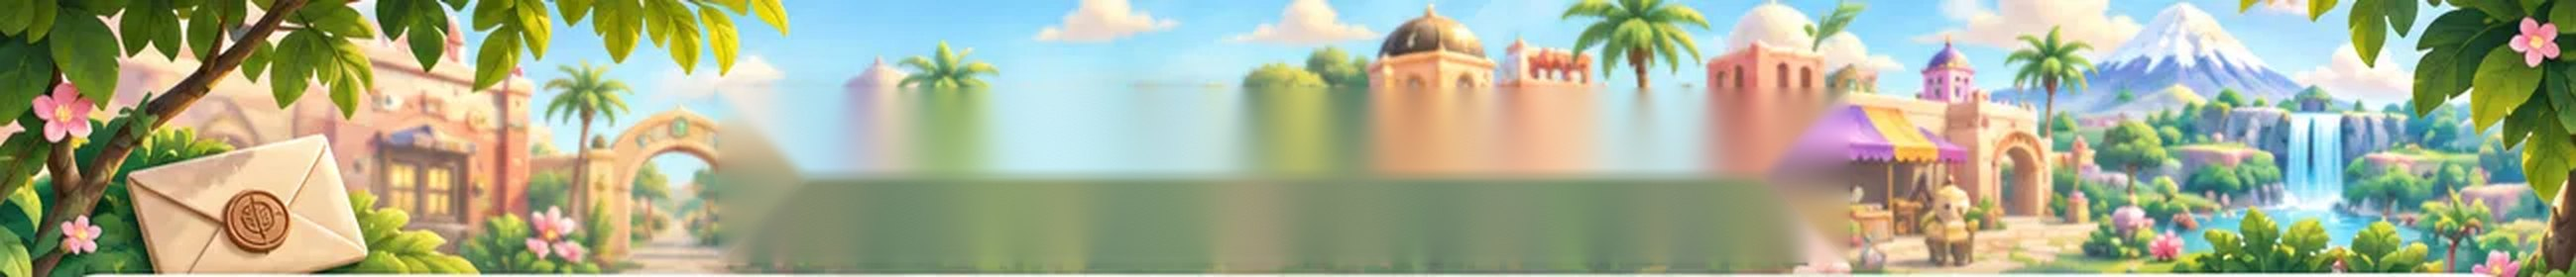
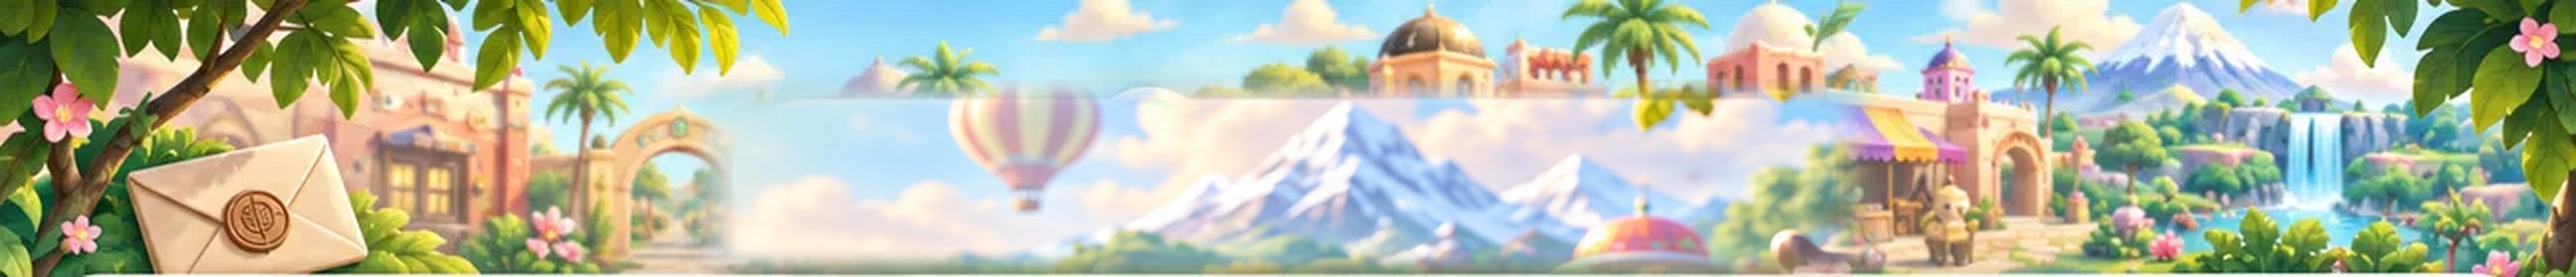
진행 단계 알약과 판 사이 간격 확보, 위 풍경 빈자리를 마을 그림으로 채움, 1단계 캐릭터 그림 아래로
Claude-Session: https://claude.ai/code/session_01CynPAmuwPJZKrN47LEfC1a

Changed region(s): [[0.2494, 0.2857, 0.7483, 1.0]]

diff --git a/css/app.css b/css/app.css
@@ -47,7 +47,7 @@ button, input, select, textarea { font: inherit; color: inherit; }
 
 /* ===== 진행 단계 알약 ===== */
 .stepper {
-  position: absolute; z-index: 2; left: 27.4%; width: 45.2%; top: 29%; height: 67%;
+  position: absolute; z-index: 2; left: 27.4%; width: 45.2%; top: 17%; height: 58%;
   display: flex; align-items: center;
   background: linear-gradient(#fffaf0, #fbf1e1);
   border-radius: var(--radius-pill);
@@ -186,8 +186,8 @@ button, input, select, textarea { font: inherit; color: inherit; }
 .route__steps span.is-on { background: var(--color-mint-soft); color: var(--color-mint-strong); border: 2px solid #9fd0bd; }
 .route__group { font-size: var(--text-xs); color: var(--color-text-muted); }
 
-.friends { position: relative; align-self: start; margin: -30px -30px 0 0; border-radius: 0 var(--radius-xl) 0 0; overflow: hidden; }
-.friends img { display: block; width: 100%; height: auto; aspect-ratio: 497 / 813; -webkit-mask-image: linear-gradient(90deg, transparent 0, #000 22%), linear-gradient(#000 88%, transparent); -webkit-mask-composite: source-in; mask-image: linear-gradient(90deg, transparent 0, #000 22%), linear-gradient(#000 88%, transparent); mask-composite: intersect; }
+.friends { position: relative; align-self: start; margin: 26px -30px 0 0; overflow: hidden; }
+.friends img { display: block; width: 100%; height: auto; aspect-ratio: 497 / 813; -webkit-mask-image: linear-gradient(90deg, transparent 0, #000 22%), linear-gradient(transparent 0, #000 9%, #000 88%, transparent); -webkit-mask-composite: source-in; mask-image: linear-gradient(90deg, transparent 0, #000 22%), linear-gradient(transparent 0, #000 9%, #000 88%, transparent); mask-composite: intersect; }
 
 /* ===== 2단계 ===== */
 .filterbar { display: flex; flex-wrap: wrap; align-items: center; gap: 14px 22px; padding: 16px 22px; border-radius: var(--radius-lg); background: #fcf6ed; border: 1.5px solid var(--color-line); box-shadow: var(--shadow-card); }
@@ -372,8 +372,8 @@ td.name { font-weight: 700; }
 
 /* ===== 반응형 ===== */
 @media (max-width: 1100px) {
-  .scene__top { aspect-ratio: auto; height: 136px; }
-  .stepper { left: 50%; transform: translateX(-50%); width: min(620px, calc(100% - 24px)); top: 26px; height: 100px; }
+  .scene__top { aspect-ratio: auto; height: 140px; }
+  .stepper { left: 50%; transform: translateX(-50%); width: min(620px, calc(100% - 24px)); top: 18px; height: 90px; }
   .step, .step--1, .step--3, .step--4 { grid-template-columns: 1fr; }
   .friends { display: none; }
   .sidebar { margin-top: 56px; }
@@ -382,8 +382,8 @@ td.name { font-weight: 700; }
 }
 @media (max-width: 760px) {
   .scene { background: var(--color-page); }
-  .scene__top { aspect-ratio: auto; height: 136px; }
-  .stepper { left: 12px; transform: none; width: calc(100% - 24px); top: 26px; height: 100px; padding: 0 12px; }
+  .scene__top { aspect-ratio: auto; height: 140px; }
+  .stepper { left: 12px; transform: none; width: calc(100% - 24px); top: 16px; height: 90px; padding: 0 12px; }
   .stepper__label { font-size: 11px; padding: 0 6px; }
   .board { margin: -4px 0 0; padding: 20px 14px 18px; border-radius: 26px 26px 0 0; }
   .head { min-height: 0; gap: 12px; align-items: flex-start; }
